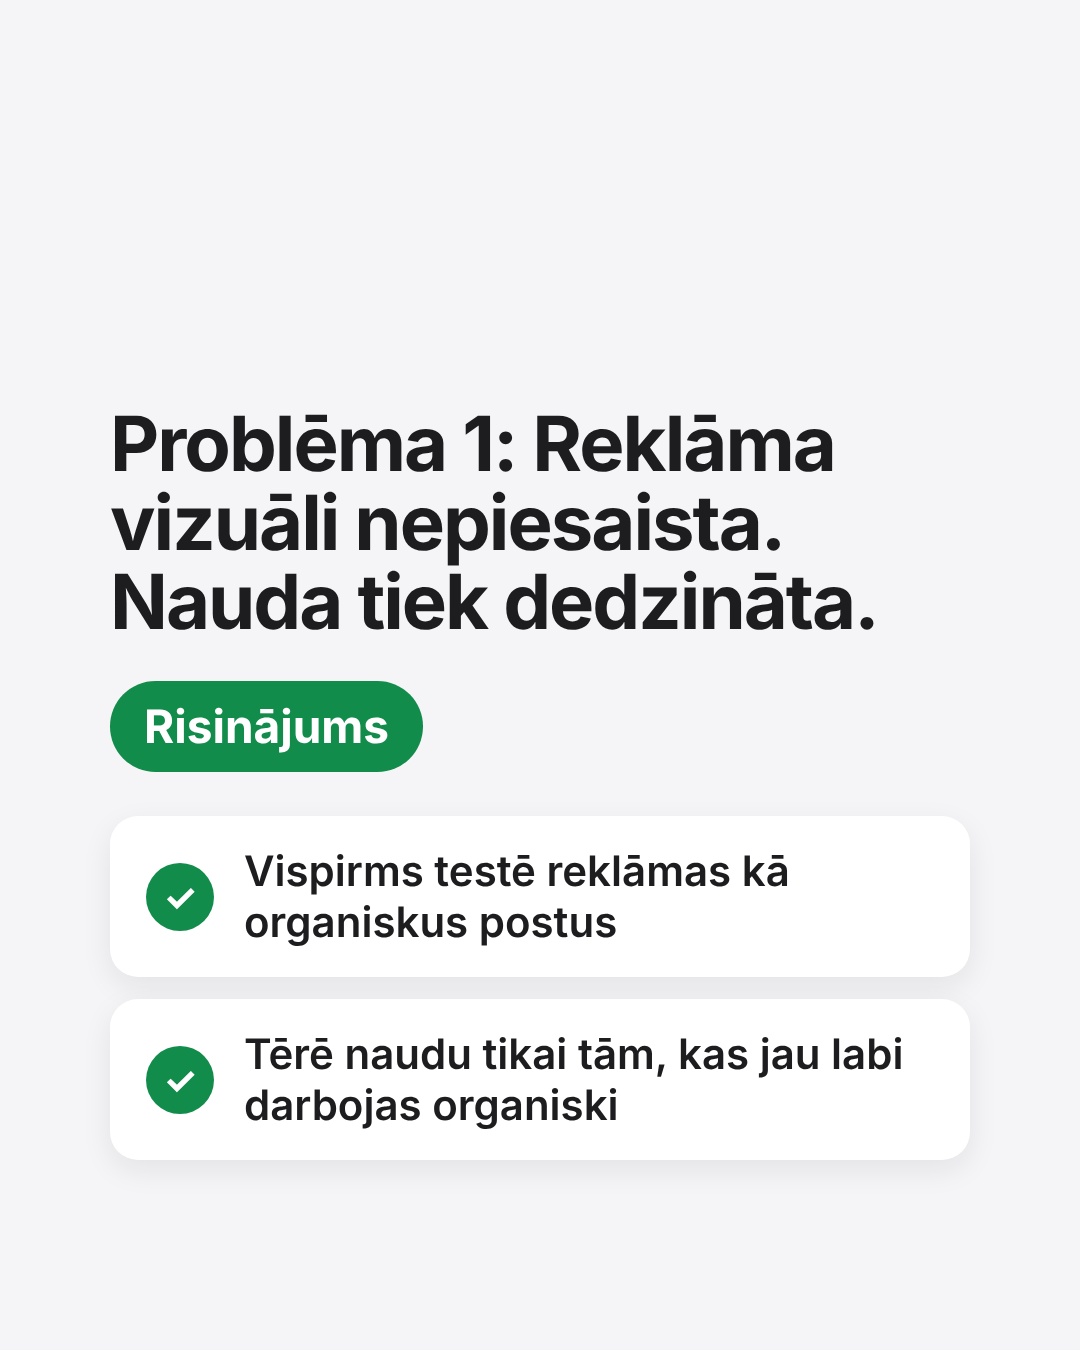
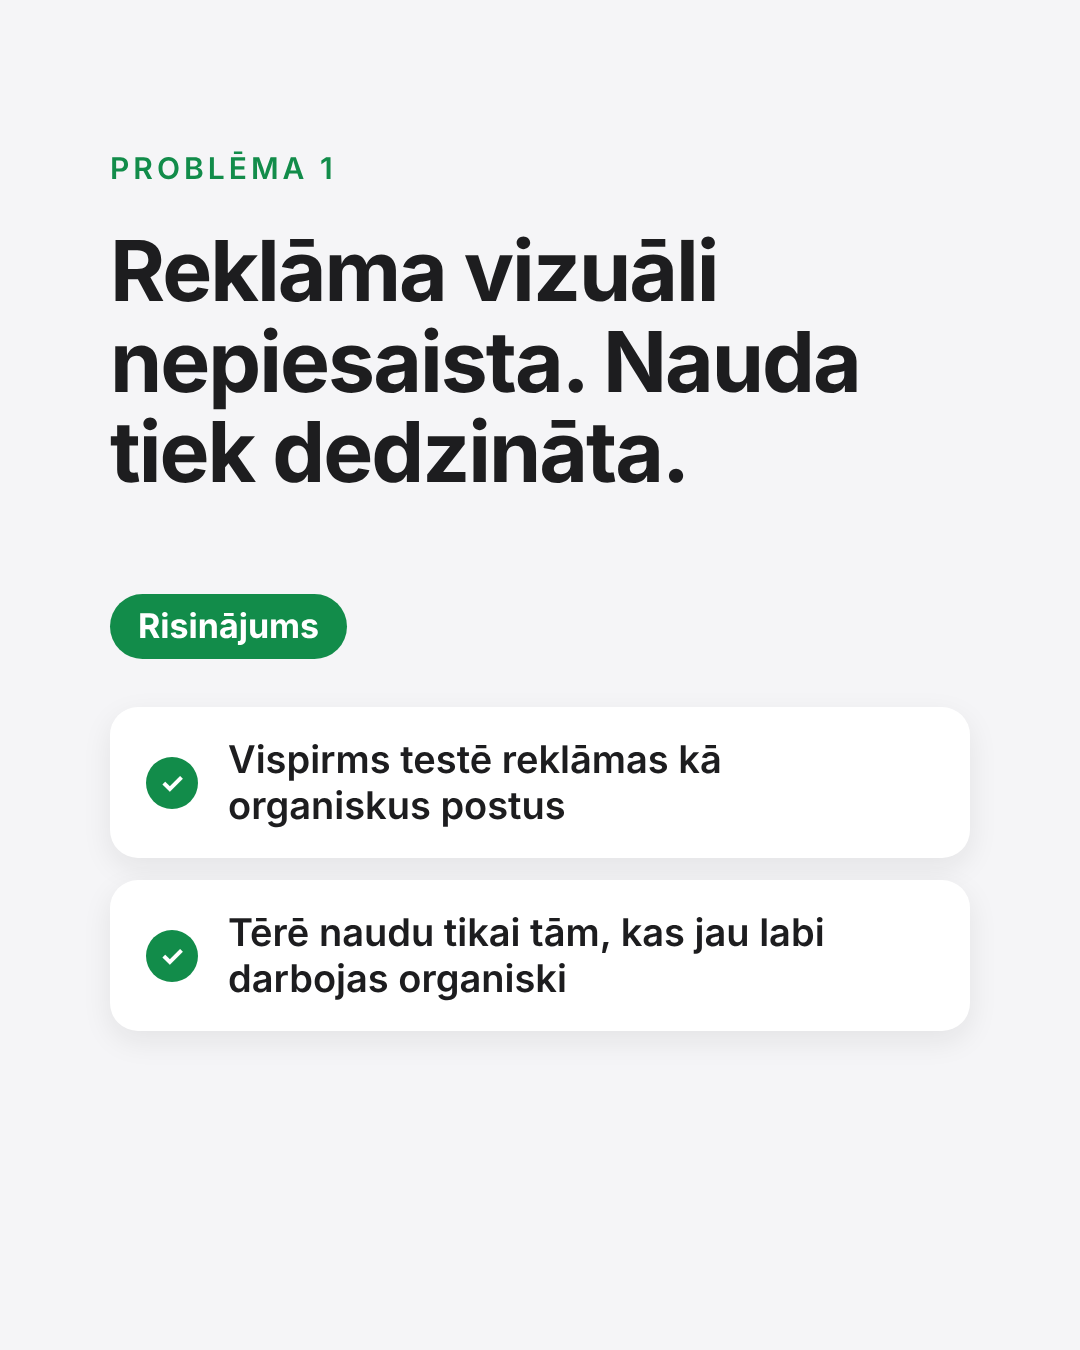
Meta carousel: aligned problem slides with fixed headline height, clearer hierarchy, comment closing slide; skill updated
Claude-Session: https://claude.ai/code/session_01BfJAaEZY2EfD7nu2Y1Q1pB

Changed region(s): [[0.0917, 0.0933, 0.825, 0.84]]

diff --git a/brand/zimols/render.js b/brand/zimols/render.js
@@ -95,6 +95,14 @@ function slide(s) {
       <div class="feat">${s.items.map(i => `<div class="card"><div class="chk">✓</div><div class="lbl">${i}</div></div>`).join('')}</div>
       ${s.footer ? `<div class="footer">${s.footer}</div>` : ''}</div></div>`;
   }
+  if (s.type === 'problem') {
+    return `<div class="s bg-${s.bg || 'paper'}"><div class="pad" style="top:150px;bottom:auto">
+      <div class="eyebrow" style="margin-bottom:40px">${s.label}</div>
+      <div class="display" style="font-size:84px;line-height:1.08;height:${3*84*1.08}px;margin:0">${s.headline}</div>
+      <div style="margin-top:56px"><span class="pill" style="font-size:34px;padding:12px 28px">${s.sub}</span></div>
+      <div class="feat" style="margin-top:48px">${s.items.map(i => `<div class="card"><div class="chk" style="width:52px;height:52px;font-size:28px">✓</div><div class="lbl" style="font-size:38px">${i}</div></div>`).join('')}</div>
+      </div></div>`;
+  }
   if (s.type === 'question') {
     const top = s.top ? `<div class="display" style="font-size:${s.topSize || 76}px;margin-bottom:44px">${s.top}</div>` : '';
     const head = s.plain ? `<div class="display" style="font-size:${s.headlineSize || 120}px">${s.headline}</div>` : `<div class="qpill">${s.headline}</div>`;

diff --git a/.claude/skills/zimols-content-system/SKILL.md b/.claude/skills/zimols-content-system/SKILL.md
@@ -79,3 +79,11 @@ NODE_PATH=$(npm root -g) node spin-7en.js <framesDir>   # then ffmpeg to mp4
 - [ ] Correct language for the channel.
 - [ ] Numbers sourced.
 - [ ] Commit and push to `claude/affectionate-hopper-gd4vc1`.
+
+## Problem / solution slides (`type: "problem"`)
+- Use one shared layout for every problem slide in a series so they line up.
+- Eyebrow label "PROBLĒMA n" in green, letter-spaced, 30 px.
+- Headline 84 px, box reserved for 3 lines (`height = 3 × 84 × 1.08`), so the cards start at the same y on every slide regardless of headline length.
+- Small pill "Risinājums" at 34 px (clearly smaller than the headline), 48-56 px gap above it.
+- Cards at 38 px, check circles at 52 px.
+- Closing slide of a series: a question headline that names the topic (e.g. "Kas tev vislabāk darbojas Meta reklāmās?") and a short comment invite.
